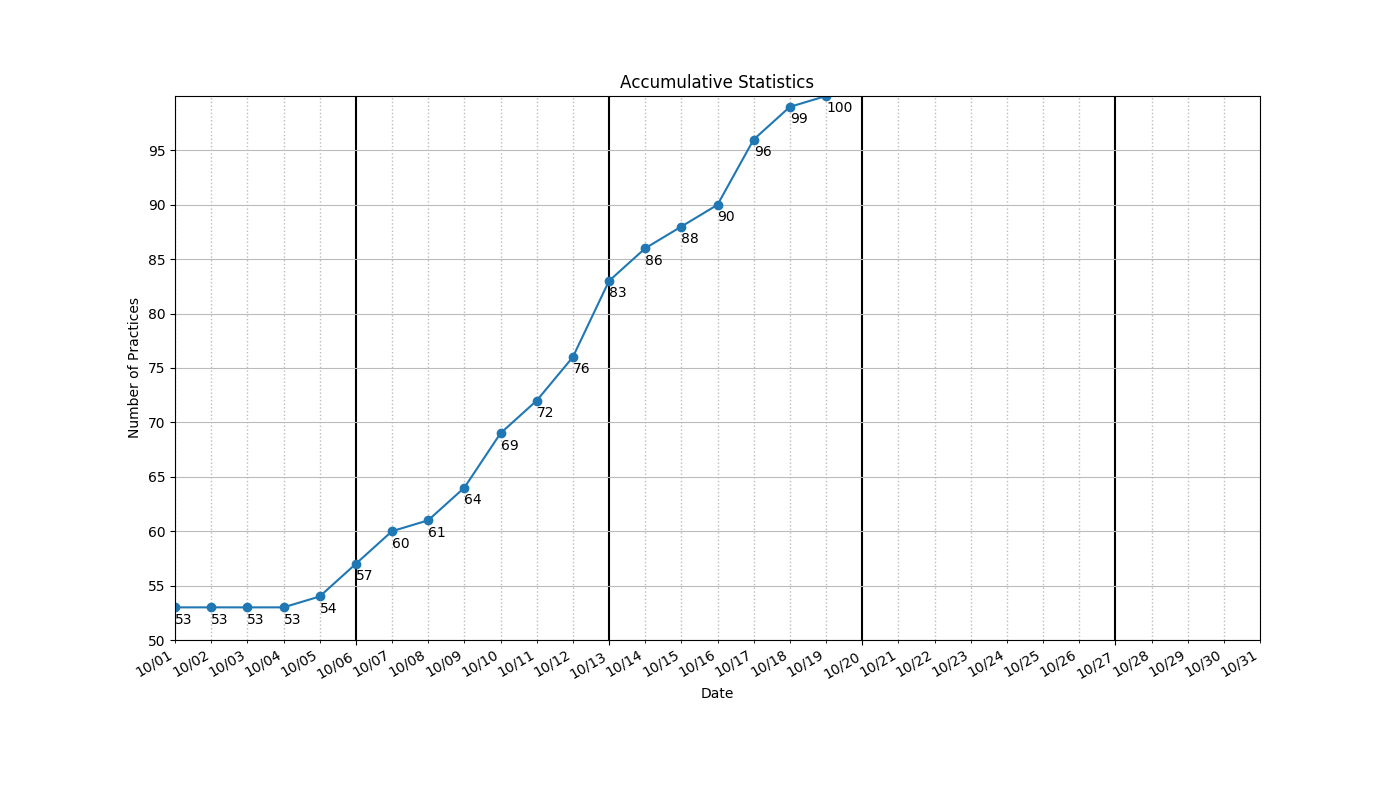
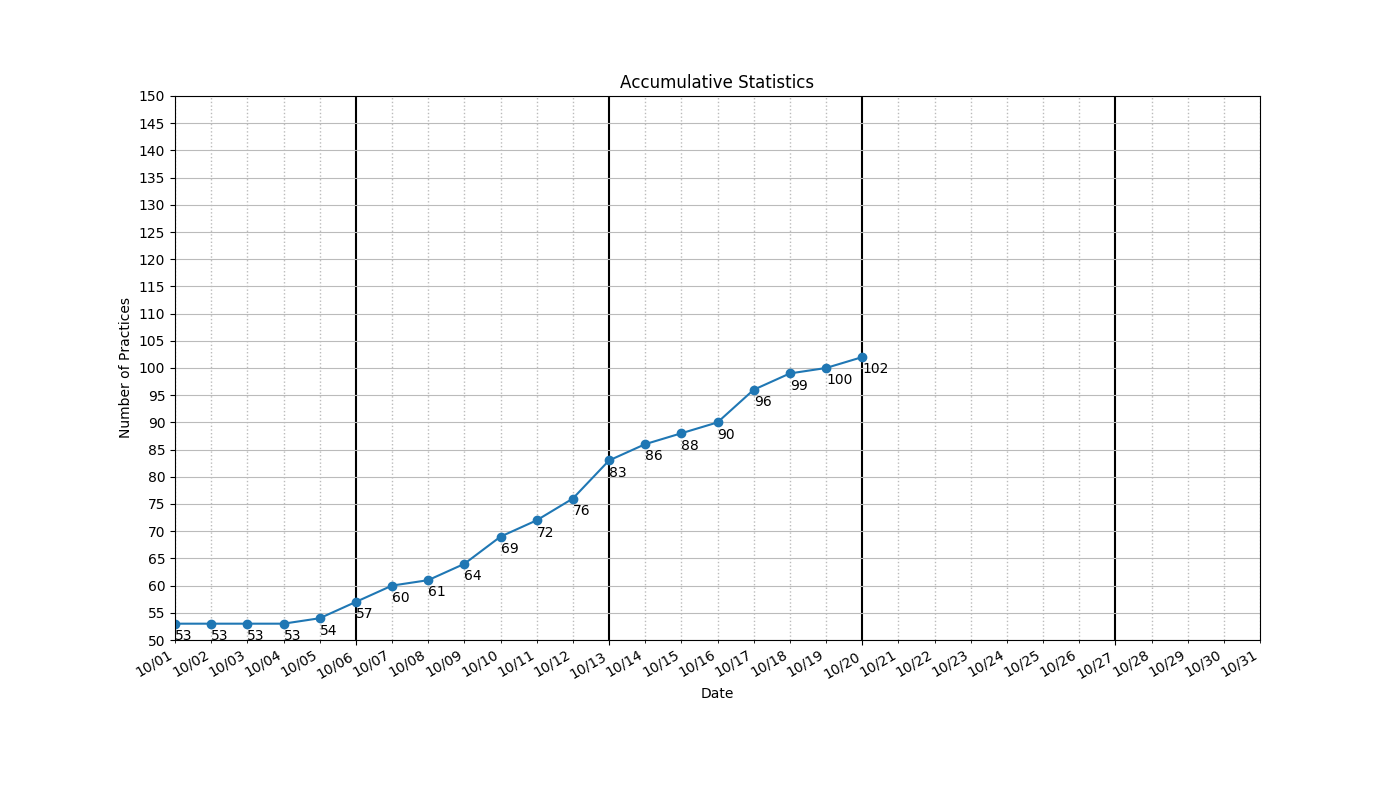
Updated the range of y-axis

diff --git a/algodraw.py b/algodraw.py
@@ -49,10 +49,10 @@ def draw(dates, values):
     ax.set_ylim(50,100) 
 
     plt.plot_date(dates, values, '-', marker='o')
-    plt.yticks(np.arange(50, 100, step=5))
+    plt.yticks(np.arange(50, 155, step=5))
     plt.gcf().autofmt_xdate(which='both')
     for i,j in zip(dates, values):
-        ax.annotate(str(j),xy=(i, j - 1.5))
+        ax.annotate(str(j),xy=(i, j - 3))
     #plt.show()
     plt.savefig(FILE_IMAGE)
 
